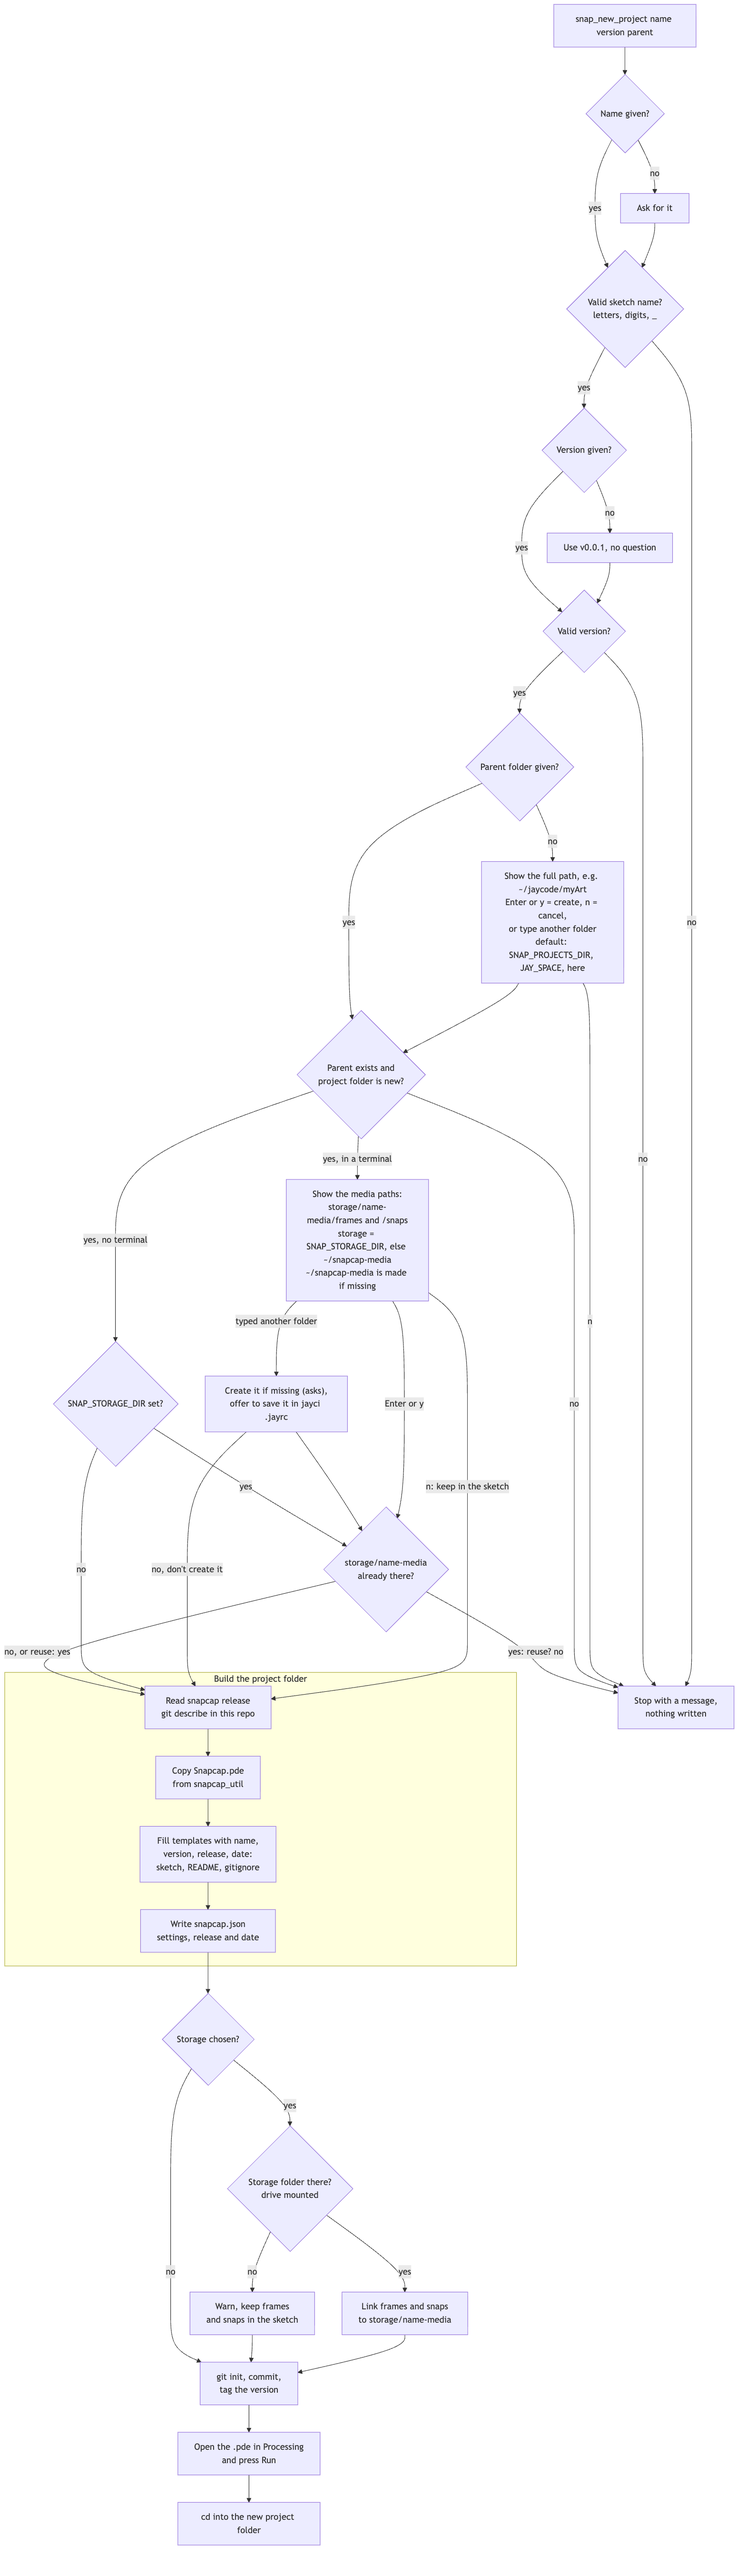
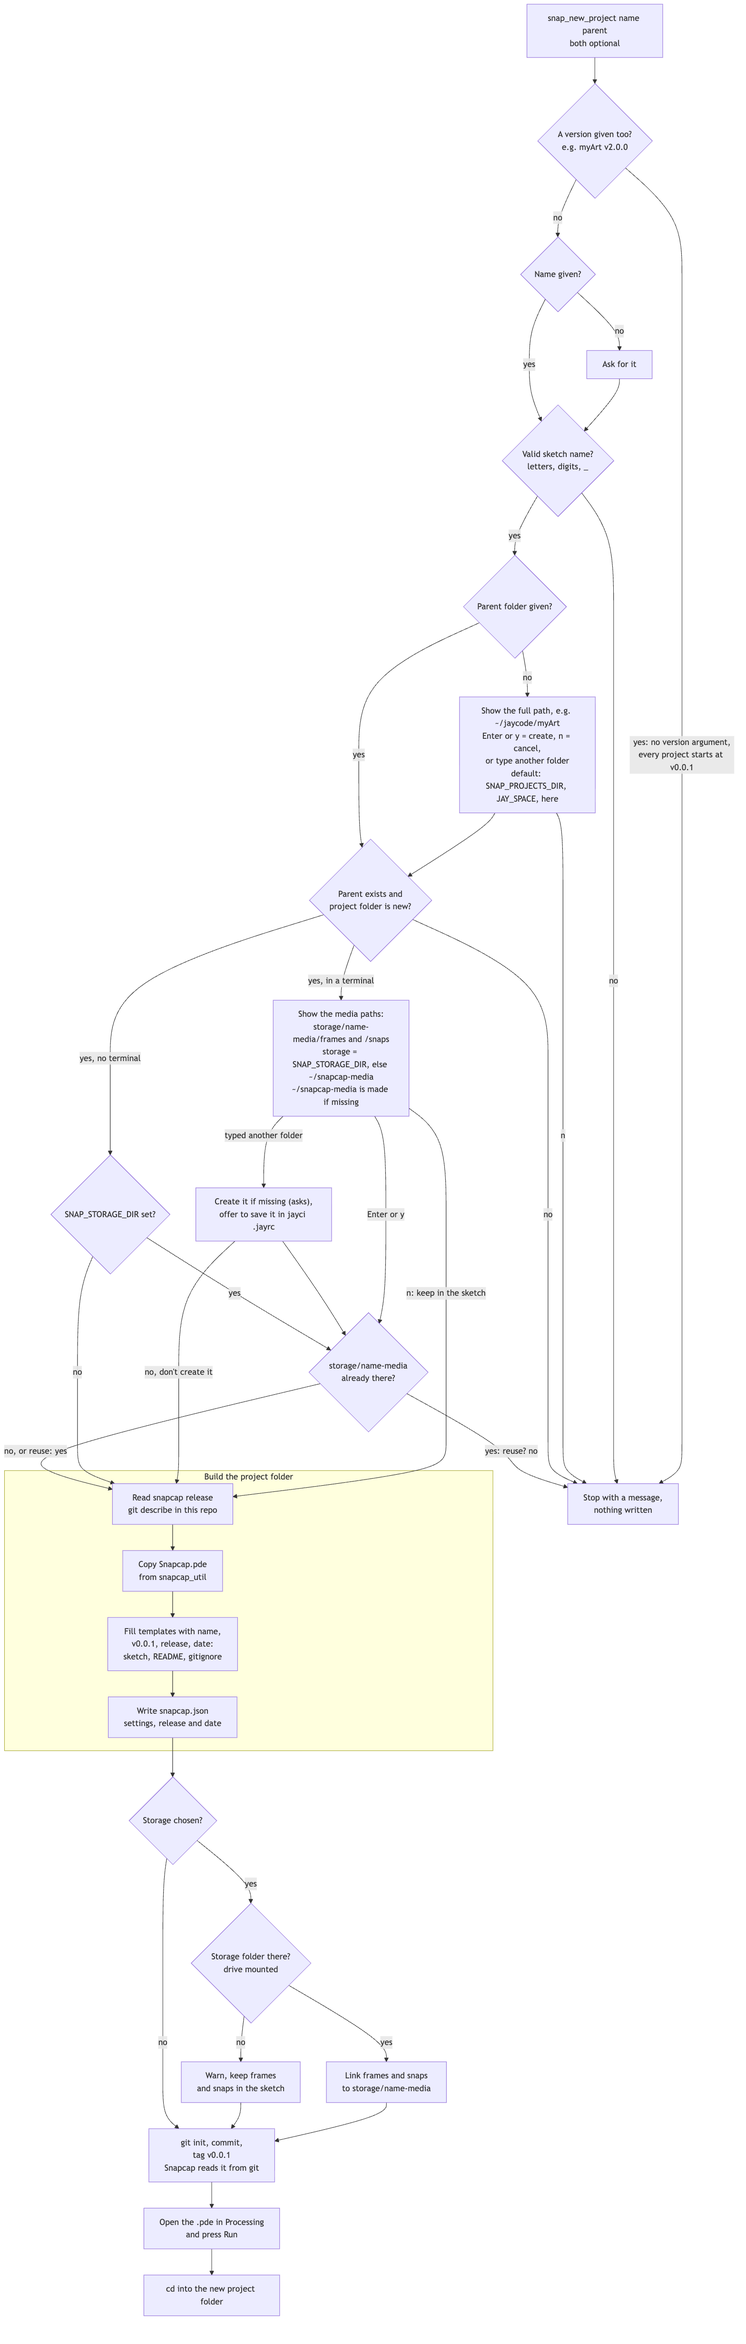
README for artists; snap_new_project drops the version argument
- README "Start a new project": snap_new_project myArt first, then
  Option A (step-by-step setup for an artist) and Option B (a prompt
  for an AI assistant to check, set up and walk through snapcap).
- snap_new_project [name] [parent]: every project starts at v0.0.1.
  The old name/version/parent form is refused with a clear message.
  Old code in the FOSSIL RECORD.
- Tests and new-project diagram updated.

diff --git a/README.md b/README.md
@@ -26,10 +26,167 @@ current snapcap release at the top.
 `snap_new_project` is a build script that stamps out a ready-to-run Processing sketch with Snapcap already wired in. Think of it as a cookie cutter: `template/` is the cutter, and every project it makes comes out the same shape, with its own name and version pressed in.
 
 ```bash
-source snapcap.sh                          # or via snapcap.cfg
-snap_new_project myArt ~/sketches         # version is always v0.0.1
-snap_new_project myArt v2.0.0 ~/sketches  # unless you give one
-./snapcap.sh snap_new_project myArt        # also works without sourcing
+snap_new_project myArt
+```
+
+**That's the whole command.** It asks where to put the project and where the big image files should go, then builds `myArt`: a sketch that's ready to run, with recording built in. Every new project starts at version `v0.0.1`.
+
+Two variations:
+
+```bash
+snap_new_project myArt ~/sketches       # put it in a folder you choose
+./snapcap.sh snap_new_project myArt     # from the snapcap folder, before step 5 below
+```
+
+### First time? Two ways to get set up
+
+You'll need a **Mac** (the script is built and tested on macOS), **[Processing 4](https://processing.org/download)** in your Applications folder, and a little comfort pasting lines into Terminal.
+
+- **Option A:** follow the steps yourself. About 15 minutes.
+- **Option B:** give this repo to an AI assistant. It checks the code, sets everything up, and walks you through it by asking you questions.
+
+#### Option A: step by step
+
+Each gray box is something to paste into **Terminal** (press Cmd-Space, type `Terminal`, press Return). Paste one box at a time and press Return after each.
+
+1. **Check that git is installed.** git keeps track of your sketch's versions, and Snapcap uses it to label every image.
+
+   ```bash
+   git --version
+   ```
+
+   If a window offers to install the "command line developer tools", click **Install**, wait for it to finish, and run the line again. You should see `git version ...`.
+
+2. **Tell git who you are.** This only stays on your computer unless you share a project. Skip this step if `git config user.name` already prints your name.
+
+   ```bash
+   git config --global user.name "Your Name"
+   git config --global user.email "you@example.com"
+   ```
+
+3. **Download snapcap** into your home folder:
+
+   ```bash
+   cd ~
+   git clone https://github.com/jaycody/snapcap.git
+   ```
+
+4. **Make the command available in every Terminal window.** This adds one line to `~/.zshrc`, the file Terminal reads when it opens:
+
+   ```bash
+   echo 'source ~/snapcap/snapcap.sh' >> ~/.zshrc
+   source ~/.zshrc
+   snap_help
+   ```
+
+   `snap_help` should print a list of commands. (If `echo $SHELL` says `bash`, use `~/.bash_profile` instead of `~/.zshrc`.)
+
+5. **Make your first project** in Processing's sketch folder:
+
+   ```bash
+   cd ~/Documents/Processing
+   snap_new_project myArt
+   ```
+
+   Use letters, numbers and `_` for the name, with no spaces, and don't start it with a number. It asks two questions:
+   - *New project will be created at ...* Press **Return**.
+   - *Frames and snaps will be saved outside the project, in ~/snapcap-media/myArt-media/...* Press **Return** to accept. This keeps the big image files apart from your code. You can type an external drive instead, like `/Volumes/MyDrive/snapcap-media`, or type `n` to keep the images inside the sketch.
+
+   When it finishes, your Terminal is inside the new `myArt` folder.
+
+6. **Open it in Processing and press Run (▶):**
+
+   ```bash
+   open myArt/myArt.pde
+   ```
+
+   A window opens with a soft circle that follows your mouse. Click the window so it hears your keys, then:
+
+   | Key | What it does |
+   | --- | --- |
+   | `r` | Start recording. Press `r` again to stop. |
+   | Return | Take a single still ("snap") |
+   | `d` | Hide or show the status text. It never ends up in your images. |
+   | `i` | Print the key list in Processing's console |
+
+7. **Find your images.** In Processing, choose **Sketch > Show Sketch Folder**, or from Terminal:
+
+   ```bash
+   open myArt/frames myArt/snaps
+   ```
+
+   Each recording is its own folder of numbered `.tga` images, one per frame. Snaps are `.png`. To turn a recording into a video, use Processing's **Tools > Movie Maker** and drag the recording's folder in.
+
+8. **Make it yours.** Replace what's inside `draw()` in `myArt.pde` with your own art. Keep the `snapcap = new Snapcap("myArt");` line in `setup()`: that's what turns recording on.
+
+9. **Mark a version** when you like where it's going:
+
+   ```bash
+   git add -A
+   git commit -m "what changed"
+   git tag v0.0.2
+   ```
+
+   New images are labeled `v0.0.2`, so you'll always know which version of the code made which picture. Until you commit, labels end in `-dirty`, which means "changed since the last saved version".
+
+To get a newer snapcap later, run `cd ~/snapcap && git pull`. Projects you already made keep their own copy, so they don't change. Already have a sketch you want to record? See [Use it in a sketch](#use-it-in-a-sketch).
+
+#### Option B: let your AI assistant set it up
+
+This works best with an assistant that can run commands on your computer, such as Claude Code or another AI coding tool with Terminal access. A chat-only assistant can follow the same prompt: you paste each command it gives you into Terminal and paste back what it prints.
+
+Copy this whole prompt into your assistant:
+
+```text
+I'm an artist with basic coding skills. I want to use snapcap, a frame-recording
+tool for Processing sketches: https://github.com/jaycody/snapcap
+
+Do this in order. Before each step, tell me in plain language what you're about
+to do and why. Don't install or change anything without asking me first.
+
+1. Read the repo before running anything: README.md, snapcap.sh,
+   snapcap_util/Snapcap.pde, template/ and tests/. In a few sentences, tell me
+   what the tool does, what it will create or change on my computer, and
+   anything that worries you. In particular, check that it doesn't download
+   anything, doesn't use sudo, and doesn't write outside the folders the README
+   describes.
+
+2. Check my computer: macOS version, Processing 4 in /Applications, git (and
+   whether git user.name and user.email are set), my shell, and Java. Tell me
+   what's missing and how to get it.
+
+3. Clone the repo (ask me where; ~/snapcap is the default) and run its tests:
+     bash tests/test_new_project.sh
+     bash tests/test_storage_check.sh
+   The second one needs Java; Processing's own JDK works, at
+   /Applications/Processing.app/Contents/app/resources/jdk (put its bin folder
+   on PATH for the test). Tell me whether they passed and what they check.
+
+4. Ask me these one at a time, and wait for each answer:
+   - Where do I keep my sketches? (Processing's default is ~/Documents/Processing)
+   - Where should the big image files go: ~/snapcap-media (the default), an
+     external drive, or inside each sketch?
+   - Should the snap_new_project command work in every Terminal window?
+     (adds one line, source ~/snapcap/snapcap.sh, to my ~/.zshrc)
+   - What should my first project be called? (letters, numbers and _ only,
+     not starting with a number)
+
+5. Create my first project with:  snap_new_project <name> <sketch folder>
+   Don't give it a version number: new projects start at v0.0.1. In a real
+   terminal it asks where the images go. If you're running it without one, it
+   skips that question and uses SNAP_STORAGE_DIR, so create my chosen storage
+   folder and set SNAP_STORAGE_DIR to it for that command. If I chose "inside
+   each sketch", leave it unset.
+
+6. Open the sketch in Processing (open <project>/<name>/<name>.pde), then walk
+   me through using it one step at a time, checking with me after each: press
+   Run, record a few seconds with r, take a snap with Return, find the files,
+   and turn a recording into a video with Processing's Tools > Movie Maker.
+
+7. Show me how to save a new version (git commit, then git tag v0.0.2) so new
+   images get the new label.
+
+Keep your explanations short, and explain any technical word you use.
 ```
 
 ### How the script runs
@@ -40,8 +197,8 @@ snap_new_project myArt v2.0.0 ~/sketches  # unless you give one
 
 Step by step:
 
-1. **Gather.** The name and parent folder come from the arguments; anything missing is asked for. The version is always `v0.0.1` unless you give one. For the folder, it shows the full path the project will get (for example `~/jaycode/myArt`) and asks you to press Enter, type `n` to cancel, or type a different folder. Then it shows where frames and snaps will go (see step 4) and asks you to confirm.
-2. **Check.** It stops before writing anything if the name isn't a valid Processing sketch name, the version has characters that would break a folder name, the parent folder doesn't exist, the project folder already exists, or the storage folder already has a `<name>-media` folder (it asks before sharing it). Nothing gets overwritten.
+1. **Gather.** The name and parent folder come from the arguments; anything missing is asked for. Every project starts at `v0.0.1`. For the folder, it shows the full path the project will get (for example `~/jaycode/myArt`) and asks you to press Enter, type `n` to cancel, or type a different folder. Then it shows where frames and snaps will go (see step 4) and asks you to confirm.
+2. **Check.** It stops before writing anything if the name isn't a valid Processing sketch name, the parent folder doesn't exist, the project folder already exists, or the storage folder already has a `<name>-media` folder (it asks before sharing it). Nothing gets overwritten.
 3. **Build.** It copies `Snapcap.pde` and fills the files in `template/`, swapping `__PROJECT__`, `__VERSION__`, `__SNAPCAP_RELEASE__` and `__DATE__` for real values. Only the files a sketch needs are copied: no `.git`, demo layers or notes.
 4. **Link storage.** The project (`<parent>/<name>`, code and git) and its media are kept in two different places. Media goes in `<storage>/<name>-media/frames` and `/snaps`, where `<storage>` is `SNAP_STORAGE_DIR` if you set one, otherwise `~/snapcap-media`. The script shows the full paths: press **Enter** to use them, **n** to keep frames and snaps inside the sketch folder instead, or type a different storage folder (it can save that one to jayci's `.jayrc` so it becomes the default). The sketch's `frames` and `snaps` folders become links to the media folders, so big image files stay out of the code: open `frames/` in the sketch and you see the real images. If `SNAP_STORAGE_DIR` points at a drive that isn't mounted, no links are made, nothing is created in its place, and output stays in the sketch. Run without a terminal (scripts, tests), only a set `SNAP_STORAGE_DIR` is used; `~/snapcap-media` is never created on its own.
 5. **Version.** It runs `git init`, commits, and tags that first commit with the version. Snapcap reads its version from git, so the first frame you record is already labeled `v0.0.1`. Tag again (`git tag v0.0.2`) and new output gets the new label.
